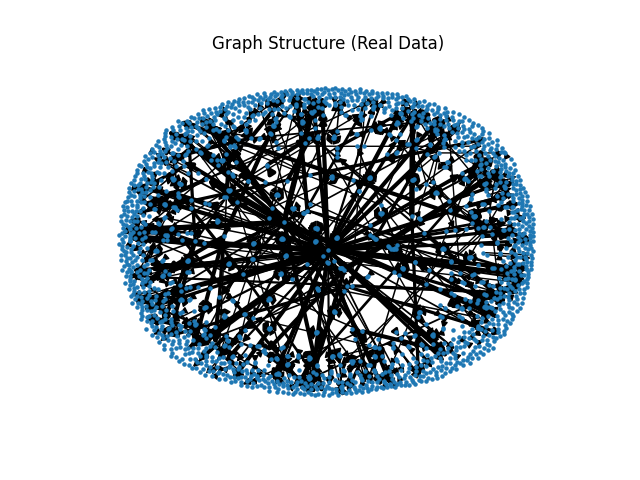
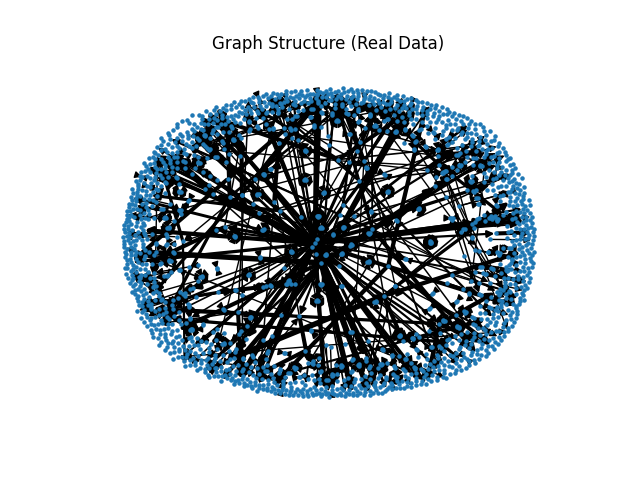
updated graph evaluation

Changed region(s): [[0.1875, 0.1562, 0.8438, 0.8438]]

diff --git a/evaluation/RealBank/04_evaluation_RebuildGraph.py b/evaluation/RealBank/04_evaluation_RebuildGraph.py
@@ -16,7 +16,7 @@ import networkx as nx
 from modified_sitepackages.netcomp import netsimile, deltacon0
 
 
-models = ['DOPPELGANGER', 'FINDIFF', 'TVAE', 'WGAN', 'CTGAN']
+models = ['DOPPELGANGER', 'FINDIFF', 'TVAE', 'WGANGPwDRS', 'CTGAN']
 keep_col = ['PC1','PC2','PC3','PC4','PC5','PC6','PC7','PC8','PC9','PC10']
 
 real_data = pd.read_csv("./working/transformed_df_graph.csv")
@@ -35,6 +35,7 @@ real_nodes_avg_distance = []
 for i, chunk in tqdm(real_nodes_scaled.groupby(np.arange(len(real_nodes_scaled))//15000), desc= "Calculating Average Distance between Real Nodes"):
     real_nodes_avg_distance.append(np.mean(cdist(real_nodes_scaled.drop(chunk.index).values, chunk.values, 'euclid')))
 real_nodes_avg_distance = np.mean(real_nodes_avg_distance)
+real_nodes_per_datapoint = num_real_nodes / real_data.shape[0]
 
 if not os.path.exists("./results"):
     os.makedirs("./results")
@@ -45,6 +46,8 @@ for model in models:
 
     with open("./model/{}.pkl".format(model), 'rb') as file:
         synthesizer = pickle.load(file)
+
+    synthesizer.device = "cuda"
 
     # sample in batches
     synthetic_data = pd.DataFrame()
@@ -85,35 +88,24 @@ for model in models:
 
         synth_nodes_avg_distances[n_clusters] = synthetic_nodes_avg_distance
 
-    n_cluster = min(synth_nodes_avg_distances, key=lambda x:abs(x- real_nodes_avg_distance))
-    with open("./working/kmeans_{}/kmeans_{}_{}.pkl".format(model, model, n_cluster), 'rb') as f:
+    n_clusters = min(synth_nodes_avg_distances, key=lambda x:abs(x- real_nodes_avg_distance))
+    with open("./working/kmeans_{}/kmeans_{}_{}.pkl".format(model, model, n_clusters), 'rb') as f:
         kms = pickle.load(f)
-    synthetic_nodes["node_id"] = kms.predict(synthetic_nodes)
+    synthetic_nodes_distance = synthetic_nodes
+    synthetic_nodes_distance["node_id"] = kms.predict(synthetic_nodes_distance)
 
-    synthetic_data = synthetic_data.merge(synthetic_nodes, left_on= ["target_id_{}".format(i) for i in range(6)], right_on= ["id_{}".format(i) for i in range(6)], how="left", suffixes= ("", "_target"))
-    synthetic_data = synthetic_data.merge(synthetic_nodes, left_on=["source_id_{}".format(i) for i in range(6)], right_on=["id_{}".format(i) for i in range(6)], how="left", suffixes= ("", "_source"))
+    synthetic_data_distance = synthetic_data.merge(synthetic_nodes_distance, left_on= ["target_id_{}".format(i) for i in range(6)], right_on= ["id_{}".format(i) for i in range(6)], how="left", suffixes= ("", "_target"))
+    synthetic_data_distance = synthetic_data_distance.merge(synthetic_nodes_distance, left_on=["source_id_{}".format(i) for i in range(6)], right_on=["id_{}".format(i) for i in range(6)], how="left", suffixes= ("", "_source"))
 
-    synthetic_data.to_csv("./synth/{}_synthetic_data_graph.csv".format(model), index=False)
+    synthetic_data_distance.to_csv("./synth/{}_synthetic_data_graph_distance.csv".format(model), index=False)
 
-real_data = real_data.reset_index()[["source_id", "target_id", "index"]].groupby(["source_id", "target_id"]).count().reset_index().rename(columns= {"index": "weight"})
-real_graph = nx.from_pandas_edgelist(real_data, source= "source_id", target= "target_id", edge_attr="weight", create_using= nx.DiGraph)
+    n_clusters = int(real_nodes_per_datapoint * synthetic_data.shape[0])
+    kms = MiniBatchKMeans(n_clusters=n_clusters, init="k-means++", n_init="auto", batch_size=8192)
+    kms.fit(synthetic_nodes_scaled)
+    synthetic_nodes_number = synthetic_nodes
+    synthetic_nodes_number["node_id"] = kms.predict(synthetic_nodes_number)
 
-#Calculate the similarity in graph structure
+    synthetic_data_graph_number = synthetic_data.merge(synthetic_nodes_number, left_on=["target_id_{}".format(i) for i in range(6)], right_on=["id_{}".format(i) for i in range(6)], how="left", suffixes=("", "_target"))
+    synthetic_data_graph_number = synthetic_data_graph_number.merge(synthetic_nodes_number, left_on=["source_id_{}".format(i) for i in range(6)], right_on=["id_{}".format(i) for i in range(6)], how="left", suffixes=("", "_source"))
 
-results_df = pd.DataFrame()
-for model in models:
-    synthetic_data = pd.read_csv("./synth/{}_synthetic_data_graph.csv".format(model))
-
-    # create networkx graphs based on the data
-    synthetic_data = synthetic_data.reset_index()[["node_id_source", "node_id_target", "index"]].groupby(["node_id_source", "node_id_target"]).count().reset_index().rename(columns= {"index": "weight"})
-    synthetic_graph = nx.from_pandas_edgelist(synthetic_data, source= "node_id_source", target= "node_id_target", edge_attr="weight", create_using= nx.DiGraph)
-
-    # score NetSimile
-    netsimile_distance = netsimile(nx.adjacency_matrix(real_graph), nx.adjacency_matrix(synthetic_graph))
-    # score deltacon0
-    deltacon0_distance = deltacon0(nx.adjacency_matrix(real_graph), nx.adjacency_matrix(synthetic_graph))
-
-    results_df = results_df.append({"Model": model, "NetSimile": netsimile_distance, "DeltaCon0": deltacon0_distance}, ignore_index=True)
-    results_df.to_excel("./results/evaluation_graph.xlsx", index=False)
-
-results_df.to_excel("./results/evaluation_graph.xlsx", index=False)
+    synthetic_data_graph_number.to_csv("./synth/{}_synthetic_data_graph_number.csv".format(model), index=False)

diff --git a/evaluation/IbmSynth/04_evaluation_RebuildGraph.py b/evaluation/IbmSynth/04_evaluation_RebuildGraph.py
@@ -109,27 +109,3 @@ for model in models:
     synthetic_data_graph_number = synthetic_data_graph_number.merge(synthetic_nodes_number, left_on=["source_id_{}".format(i) for i in range(6)], right_on=["id_{}".format(i) for i in range(6)], how="left", suffixes=("", "_source"))
 
     synthetic_data_graph_number.to_csv("./synth/{}_synthetic_data_graph_number.csv".format(model), index=False)
-
-
-real_data = real_data.reset_index()[["source_id", "target_id", "index"]].groupby(["source_id", "target_id"]).count().reset_index().rename(columns= {"index": "weight"})
-real_graph = nx.from_pandas_edgelist(real_data, source= "source_id", target= "target_id", edge_attr="weight", create_using= nx.DiGraph)
-
-#Calculate the similarity in graph structure
-
-results_df = pd.DataFrame()
-for model in models:
-    synthetic_data = pd.read_csv("./synth/{}_synthetic_data_graph.csv".format(model))
-
-    # create networkx graphs based on the data
-    synthetic_data = synthetic_data.reset_index()[["node_id_source", "node_id_target", "index"]].groupby(["node_id_source", "node_id_target"]).count().reset_index().rename(columns= {"index": "weight"})
-    synthetic_graph = nx.from_pandas_edgelist(synthetic_data, source= "node_id_source", target= "node_id_target", edge_attr="weight", create_using= nx.DiGraph)
-
-    # score NetSimile
-    netsimile_distance = netsimile(nx.adjacency_matrix(real_graph), nx.adjacency_matrix(synthetic_graph))
-    # score deltacon0
-    deltacon0_distance = deltacon0(nx.adjacency_matrix(real_graph), nx.adjacency_matrix(synthetic_graph))
-
-    results_df = results_df.append({"Model": model, "NetSimile": netsimile_distance, "DeltaCon0": deltacon0_distance}, ignore_index=True)
-    results_df.to_excel("./results/evaluation_graph.xlsx", index=False)
-
-results_df.to_excel("./results/evaluation_graph.xlsx", index=False)

diff --git a/evaluation/RealBank/05_evaluation_EvaluateGraph.py b/evaluation/RealBank/05_evaluation_EvaluateGraph.py
@@ -19,7 +19,7 @@ from modified_sitepackages.netcomp import netsimile, deltacon0
 
 
 models = ['DOPPELGANGER', 'FINDIFF', 'TVAE', 'WGANGPwDRS', 'CTGAN']
-keep_col = ['Receiving Currency', 'Amount Paid', 'Payment Currency', 'Payment Format', 'Is Laundering', 'transaction_clusters']
+keep_col = ['PC1','PC2','PC3','PC4','PC5','PC6','PC7','PC8','PC9','PC10']
 min_edge = 13
 
 real_data = pd.read_csv("./working/transformed_df_graph.csv")
